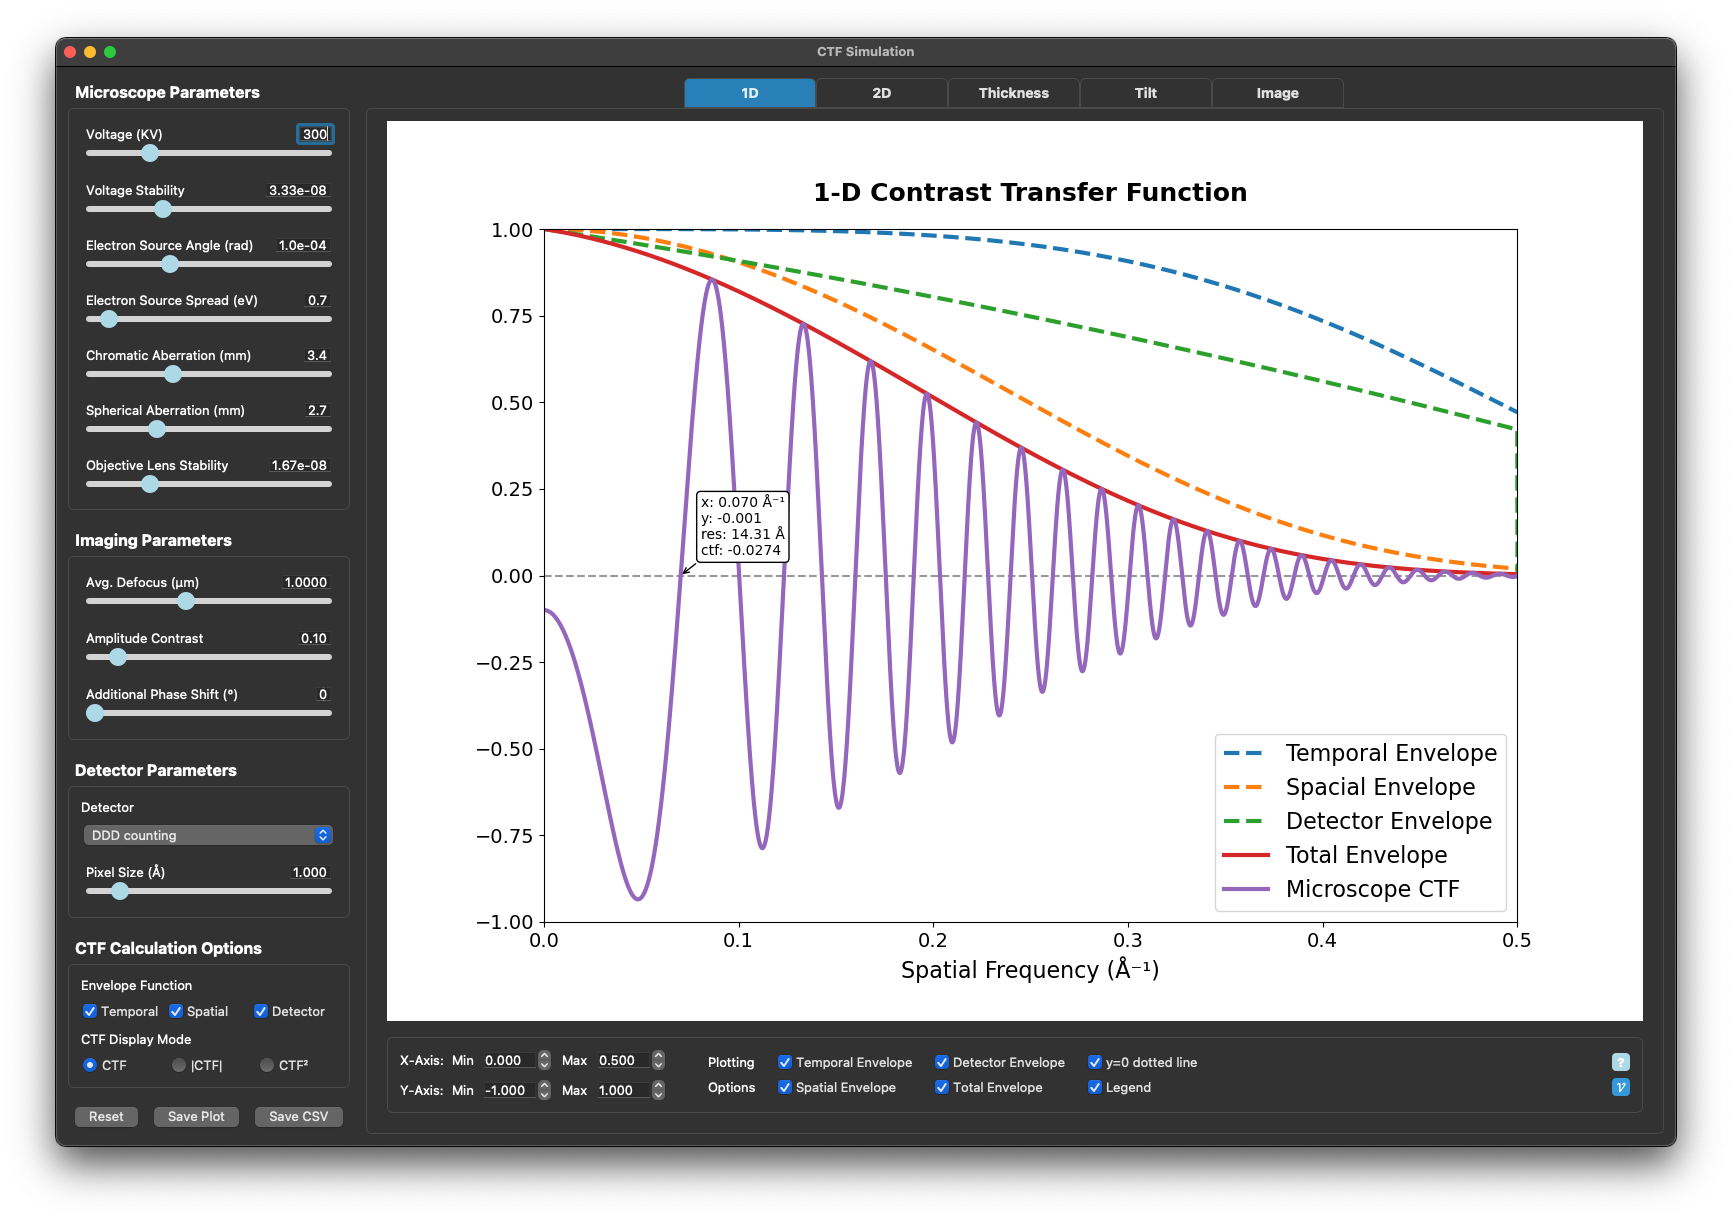
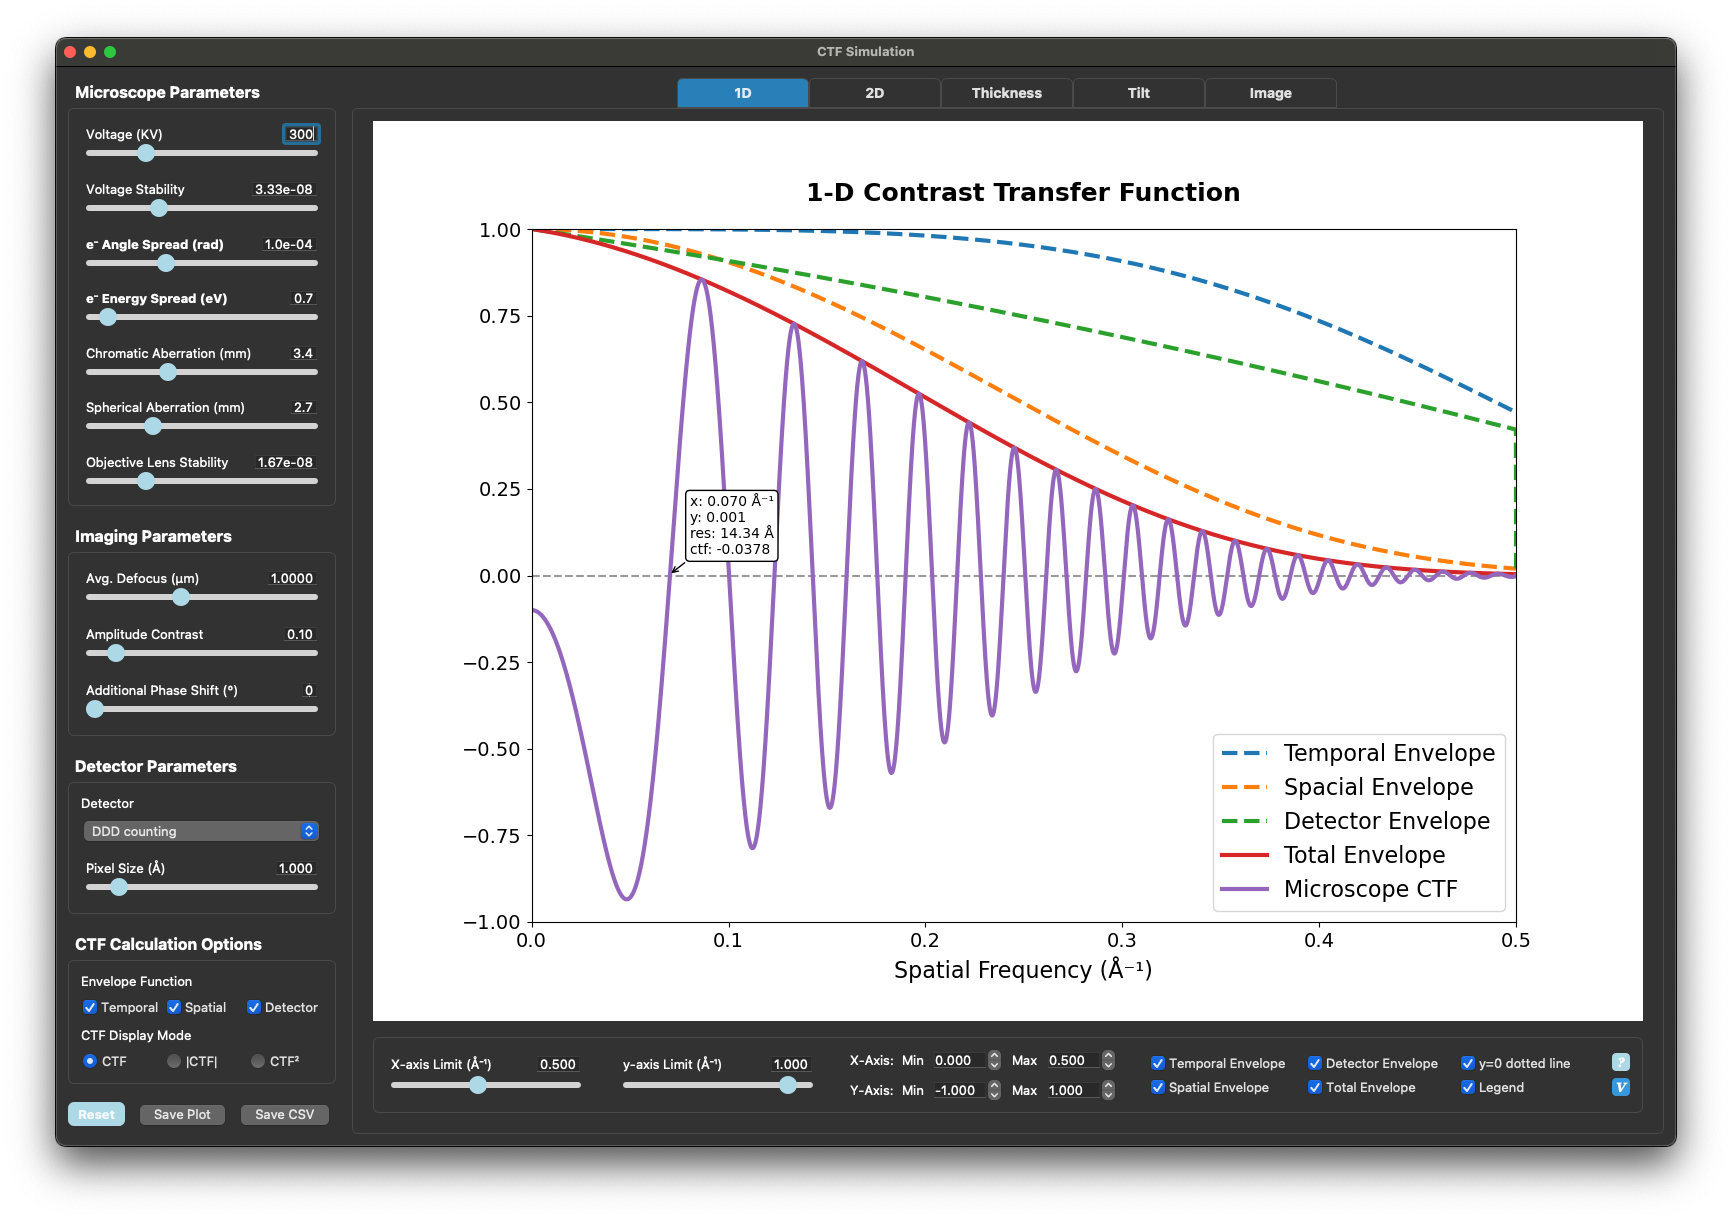
minor gui adjustment

diff --git a/gui.py b/gui.py
@@ -132,8 +132,8 @@ class CTFSimGUI(QMainWindow):
         
         self.voltage_slider = LabeledSlider("Voltage (KV)", min_value=80, max_value=1000, step=20, value_format="{:.0f}")       
         self.voltage_stability_slider = LabeledSlider("Voltage Stability", min_value=1e-9, max_value=1e-4, step=1e-9, value_format="{:.2e}", log_scale=True)       
-        self.electron_source_angle_slider = LabeledSlider("Electron Source Angle (rad)", min_value=1e-5, max_value=1e-2, step=1e-5, value_format="{:.1e}", log_scale=True)        
-        self.electron_source_spread_slider = LabeledSlider("Electron Source Spread (eV)", min_value=0, max_value=10, step=0.1, value_format="{:.1f}")
+        self.electron_source_angle_slider = LabeledSlider("<b>e⁻<\b> Angle Spread (rad)", min_value=1e-5, max_value=1e-2, step=1e-5, value_format="{:.1e}", log_scale=True)        
+        self.electron_source_spread_slider = LabeledSlider("<b>e⁻<\b> Energy Spread (eV)", min_value=0, max_value=10, step=0.1, value_format="{:.1f}")
         self.chromatic_aberr_slider = LabeledSlider("Chromatic Aberration (mm)", min_value=0., max_value=10, step=0.1, value_format="{:.1f}")
         self.spherical_aberr_slider = LabeledSlider("Spherical Aberration (mm)", min_value=0., max_value=10, step=0.1, value_format="{:.1f}")
         self.obj_lens_stability_slider = LabeledSlider("Objective Lens Stability", min_value=1e-9, max_value=1e-4, step=1e-9, value_format="{:.2e}", log_scale=True)
@@ -286,14 +286,20 @@ class CTFSimGUI(QMainWindow):
         layout_1d.addWidget(self.canvas_1d)
 
         display_1d = QHBoxLayout()
-        # display_1d.addStretch()
 
+        self.xlim_slider_1d = LabeledSlider("X-axis Limit (Å⁻¹)", min_value=0.001, max_value=1.1, step=0.001, value_format="{:.3f}" )
+        self.ylim_slider_1d = LabeledSlider("y-axis Limit (Å⁻¹)", min_value=0.001, max_value=1.1, step=0.001, value_format="{:.3f}" )
+
+        display_1d.addWidget(self.xlim_slider_1d)
+        display_1d.addStretch()
+        display_1d.addWidget(self.ylim_slider_1d)
+        display_1d.addStretch()
         display_1d.addLayout(self._build_axis_control(
             "plot_1d",
             x_min_range=(-0.1, 1), x_min_value=0,
-            x_max_range=(0, 1.1), x_max_value=0.5,
+            x_max_range=(0.001, 1.1), x_max_value=0.5,
             y_min_range=(-1.1, 1), y_min_value=-1,
-            y_max_range=(-1, 1.1), y_max_value=1
+            y_max_range=(0.001, 1.1), y_max_value=1
         ))
 
         self.show_temp = QCheckBox("Temporal Envelope    ")
@@ -303,18 +309,18 @@ class CTFSimGUI(QMainWindow):
         self.show_y0 = QCheckBox("y=0 dotted line")
         self.show_legend = QCheckBox("Legend")
 
-        display_1d.addSpacerItem(QSpacerItem(30, 0, QSizePolicy.Fixed, QSizePolicy.Minimum)) 
+        display_1d.addStretch()
 
         plotting_options = QGridLayout()
 
-        plotting_options.addWidget(QLabel("Plotting    "), 0, 0)
-        plotting_options.addWidget(QLabel("Options    "), 1, 0)
-        plotting_options.addWidget(self.show_temp, 0, 1)
-        plotting_options.addWidget(self.show_spatial, 1, 1)
-        plotting_options.addWidget(self.show_detector, 0, 2)
-        plotting_options.addWidget(self.show_total, 1, 2)
-        plotting_options.addWidget(self.show_y0, 0, 3)
-        plotting_options.addWidget(self.show_legend, 1, 3)
+        # plotting_options.addWidget(QLabel("Plotting    "), 0, 0)
+        # plotting_options.addWidget(QLabel("Options    "), 1, 0)
+        plotting_options.addWidget(self.show_temp, 0, 0)
+        plotting_options.addWidget(self.show_spatial, 1, 0)
+        plotting_options.addWidget(self.show_detector, 0, 1)
+        plotting_options.addWidget(self.show_total, 1, 1)
+        plotting_options.addWidget(self.show_y0, 0, 2)
+        plotting_options.addWidget(self.show_legend, 1, 2)
 
         display_1d.addLayout(plotting_options)
         display_1d.addStretch()
@@ -349,14 +355,6 @@ class CTFSimGUI(QMainWindow):
         layout_2d.addWidget(self.canvas_2d)
 
         display_2d = QHBoxLayout()
-        # display_2d.addStretch()
-        display_2d.addLayout(self._build_axis_control(
-            "plot_2d",
-            x_min_range=(-0.5, 0.5), x_min_value=-0.5,
-            x_max_range=(-0.5, 0.5), x_max_value=0.5,
-            y_min_range=(-0.5, 0.5), y_min_value=-1,
-            y_max_range=(-0.5, 0.5), y_max_value=1
-        ))
 
         scale_2d = QGridLayout()
         self.freq_scale_2d = QDoubleSpinBox()
@@ -378,8 +376,15 @@ class CTFSimGUI(QMainWindow):
         scale_2d.addWidget(QLabel("Max Gray Scale: "), 1, 0)
         scale_2d.addWidget(self.gray_scale_2d, 1, 1)
 
-        display_2d.addStretch()
         display_2d.addLayout(scale_2d)
+        display_2d.addStretch()
+        display_2d.addLayout(self._build_axis_control(
+            "plot_2d",
+            x_min_range=(-0.5, 0.5), x_min_value=-0.5,
+            x_max_range=(-0.5, 0.5), x_max_value=0.5,
+            y_min_range=(-0.5, 0.5), y_min_value=-1,
+            y_max_range=(-0.5, 0.5), y_max_value=1
+        ))
         display_2d.addStretch()
 
         self.defocus_diff_slider_2d = LabeledSlider("Defocus Ast. (µm)", min_value=-5, max_value=5, step=0.01, value_format="{:.4f}")
@@ -422,7 +427,7 @@ class CTFSimGUI(QMainWindow):
         self.canvas_ice.setSizePolicy(QSizePolicy.Expanding, QSizePolicy.Expanding) # Allow canvas to expand fully
 
         self.ice_thickness_slider = LabeledSlider("Ice Thickness (nm)", min_value=1, max_value=1000, step=1, value_format="{:.0f}" )
-        self.xlim_slider_ice = LabeledSlider("1D X-axis Limit (Å⁻¹)", min_value=0.1, max_value=1.1, step=0.01, value_format="{:.2f}" )
+        self.xlim_slider_ice = LabeledSlider("X-axis Limit (Å⁻¹)", min_value=0.1, max_value=1.1, step=0.01, value_format="{:.2f}" )
         self.defocus_diff_slider_ice = LabeledSlider("Defocus Ast. (µm)", min_value=-5, max_value=5, step=0.01, value_format="{:.4f}")
         self.defocus_az_slider_ice = LabeledSlider("Defocus Azimuth (°)", min_value=0, max_value=180, step=0.1, value_format="{:.1f}") 
 

diff --git a/controller.py b/controller.py
@@ -84,6 +84,8 @@ class AppController(CTFSimGUI):
         self.defocus_az_slider_image.set_value(0)
         self.amplitude_contrast_slider.set_value(0.1)
         self.additional_phase_slider.set_value(0)
+        self.xlim_slider_1d.set_value(0.5)
+        self.ylim_slider_1d.set_value(1)
         self.xlim_slider_ice.set_value(0.5)
         self.temporal_env_check.setChecked(True)
         self.spatial_env_check.setChecked(True)
@@ -635,6 +637,8 @@ class AppController(CTFSimGUI):
         self.plot_2d_y_min.valueChanged.connect(self.update_plot_range)
         self.plot_2d_y_max.valueChanged.connect(self.update_plot_range)
         self.freq_scale_2d.valueChanged.connect(self.zoom_2d_ctf)
+        self.xlim_slider_1d.valueChanged.connect(lambda value: self.plot_1d_x_max.setValue(value))
+        self.ylim_slider_1d.valueChanged.connect(self.update_ylim_1d)
         self.xlim_slider_ice.valueChanged.connect(self.update_plot_range)
         self.freq_scale_ice.valueChanged.connect(self.zoom_2d_ctf)
         self.gray_scale_2d.valueChanged.connect(self.update_grayness)
@@ -820,6 +824,7 @@ class AppController(CTFSimGUI):
             self.line_ed[0].set_data(self.freqs_1d, self.wrap_func(self.ctf_1d.Ed(self.freqs_1d)))
             self.line_te[0].set_data(self.freqs_1d, self.wrap_func(self.ctf_1d.Etotal_1d(self.freqs_1d)))
             self.line_dc[0].set_data(self.freqs_1d, self.wrap_func(self.ctf_1d.dampened_ctf_1d(self.freqs_1d)))
+            # self.canvas_1d.axes[1].set_xlim(0, self.xlim_slider_1d.get_value())
             self.canvas_1d.draw_idle()
         elif self.plot_tabs.currentIndex() == 1:
             # Update 2D
@@ -829,7 +834,7 @@ class AppController(CTFSimGUI):
             # Update ice tab plots
             self.line_ice_ref[0].set_data(self.freqs_1d, self.wrap_func(self.ctf_1d.dampened_ctf_1d(self.freqs_1d)))
             self.line_ice[0].set_data(self.freqs_1d, self.wrap_func(self.ctf_1d.dampened_ctf_ice(self.freqs_1d)))
-            self.canvas_ice.axes[1].set_xlim(0, self.xlim_slider_ice.get_value())
+            # self.canvas_ice.axes[1].set_xlim(0, self.xlim_slider_ice.get_value())
             self.ice_image_ref.set_data(self.wrap_func(self.ctf_2d.dampened_ctf_2d(self.fx_fix, self.fy_fix)))
             self.ice_image.set_data(self.wrap_func(self.ctf_2d.dampened_ctf_ice(self.fx_fix, self.fy_fix)))
             self.canvas_ice.draw_idle()
@@ -867,6 +872,12 @@ class AppController(CTFSimGUI):
         if self.plot_tabs.currentIndex() == 0:
             self.canvas_1d.axes[1].set_xlim(self.plot_1d_x_min.value(), self.plot_1d_x_max.value())
             self.canvas_1d.axes[1].set_ylim(self.plot_1d_y_min.value(), self.plot_1d_y_max.value())
+            self.xlim_slider_1d.blockSignals(True)
+            self.xlim_slider_1d.set_value(self.plot_1d_x_max.value())
+            self.xlim_slider_1d.blockSignals(False)
+            self.ylim_slider_1d.blockSignals(True)
+            self.ylim_slider_1d.set_value(self.plot_1d_y_max.value())
+            self.ylim_slider_1d.blockSignals(False)
             self.canvas_1d.draw_idle()
         elif self.plot_tabs.currentIndex() == 1:
             self.canvas_2d.axes[1].set_xlim(self.plot_2d_x_min.value(), self.plot_2d_x_max.value())
@@ -875,6 +886,16 @@ class AppController(CTFSimGUI):
         elif self.plot_tabs.currentIndex() == 2:
             self.canvas_ice.axes[1].set_xlim(0, self.xlim_slider_ice.get_value())
             self.canvas_ice.draw_idle()
+
+    def update_ylim_1d(self, value) -> None:
+        """
+        Update Y limits of 1D CTF plot using slider.
+        """
+        self.plot_1d_y_max.setValue(value)
+        if self.radio_button_group.checkedButton() == self.radio_abs_ctf or self.radio_button_group.checkedButton() == self.radio_ctf_squared:
+            self.plot_1d_y_min.setValue(0)
+        else:
+            self.plot_1d_y_min.setValue(-value)
 
     def zoom_2d_ctf(self) -> None:
         """
@@ -1481,7 +1502,8 @@ class AppController(CTFSimGUI):
                     "1) The controls on the left panel affect CTF calculations across all tabs.<br>"
                     "2) Tab-specific controls are located at the bottom of each tab.<br>"
                     "3) Tabs '2D', 'Thickness', 'Image' share the same 2-D CTF model. <br>"
-                    "4) The detector envelope models only the attenuation of the CTF at higher spatial frequencies due to the detector's DQE. "
+                    "4) Positive defocus values indicate underfocus.<br>"
+                    "5) The detector envelope models only the attenuation of the CTF at higher spatial frequencies due to the detector's DQE. "
                     "The actual impact of different detectors on image signal-to-noise ratio, based on varying DQE characteristics, is not simulated. "
                     "DQEs are modeled as polynomial functions of spatial frequency. <br><br>"
                     "<b>Equations used:</b>"
